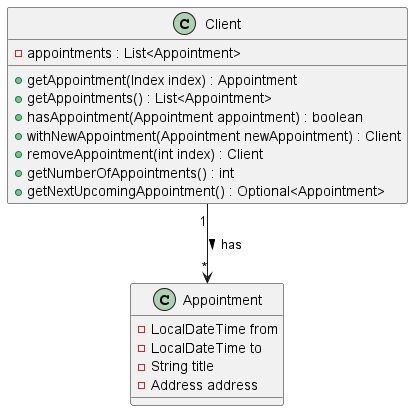
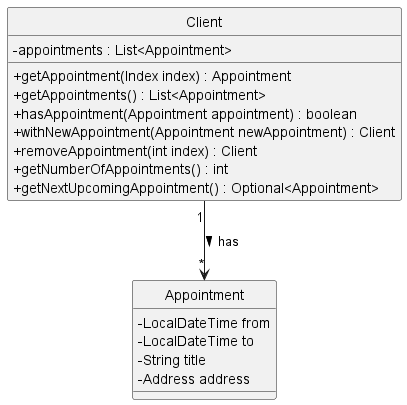
Update Appointment class diag, find tag typo, DG
Change the AppointmentClassDiagram.puml to not use
PUML symbol.
Fix typo in FindTagSequenceDiagram.puml.
Update language of Appointment in DG.

diff --git a/docs/DeveloperGuide.md b/docs/DeveloperGuide.md
@@ -286,8 +286,9 @@ This list is maintained in sorted order according to `Appointment::compareTo` (`
 There are only two methods for modifying the appointments, all of which will preserve the order when inserting or removing.  
 <br>
 Two helper methods within [Client](https://github.com/AY2324S2-CS2103T-T17-1/tp/blob/master/src/main/java/seedu/address/model/client/Client.java), `withNewAppointment` and `removeAppointment`, are provided to add and remove an appointment from the Client's list respectively.  
-Within Appointment itself, it reuses the `Address` class that is also used in `Client` for validation.    
-It is guaranteed that the fields, `from` come before or be the same as `to`.<br>  
+These helper methods essentially does a copy of the existing list, modify it and create a new instance of Client with the new modified list.  
+Within Appointment itself, it reuses the `Address` class that is also used in `Client`. Parsing wise, it should behave the same as in any other command.      
+It is guaranteed that the fields, `from` come before or is the same as `to`.<br>  
 <br>
 The date and time of `from` and `to` are stored in `LocalDateTime` and truncated to the `minute` level. I.e. seconds and any units smaller than that are ignored.  
  
